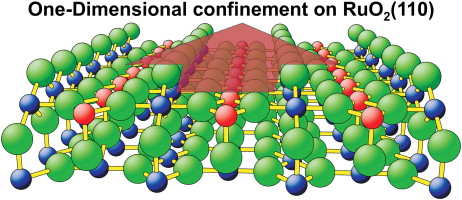
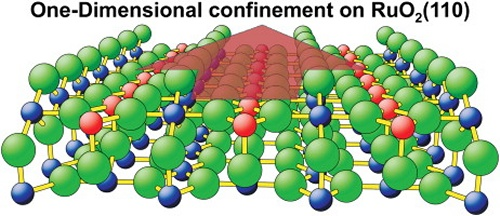
width

diff --git a/_includes/archive-single.html b/_includes/archive-single.html
@@ -57,7 +57,7 @@
 	{% if post.teaser %}
 	  <table><tr>
 	  <td>{{ post.citation }} <a href="{{ post.paperurl }}">{{ post.doi | default: "[DOI]"] }}</a></td>
-	  <td><img src="{{ post.teaser }}" ></td>
+	  <td><img src="{{ post.teaser }}" width=100%></td>
 	  </tr></table>
 	{% else %}
       {% if post.citation and post.paperurl %}
